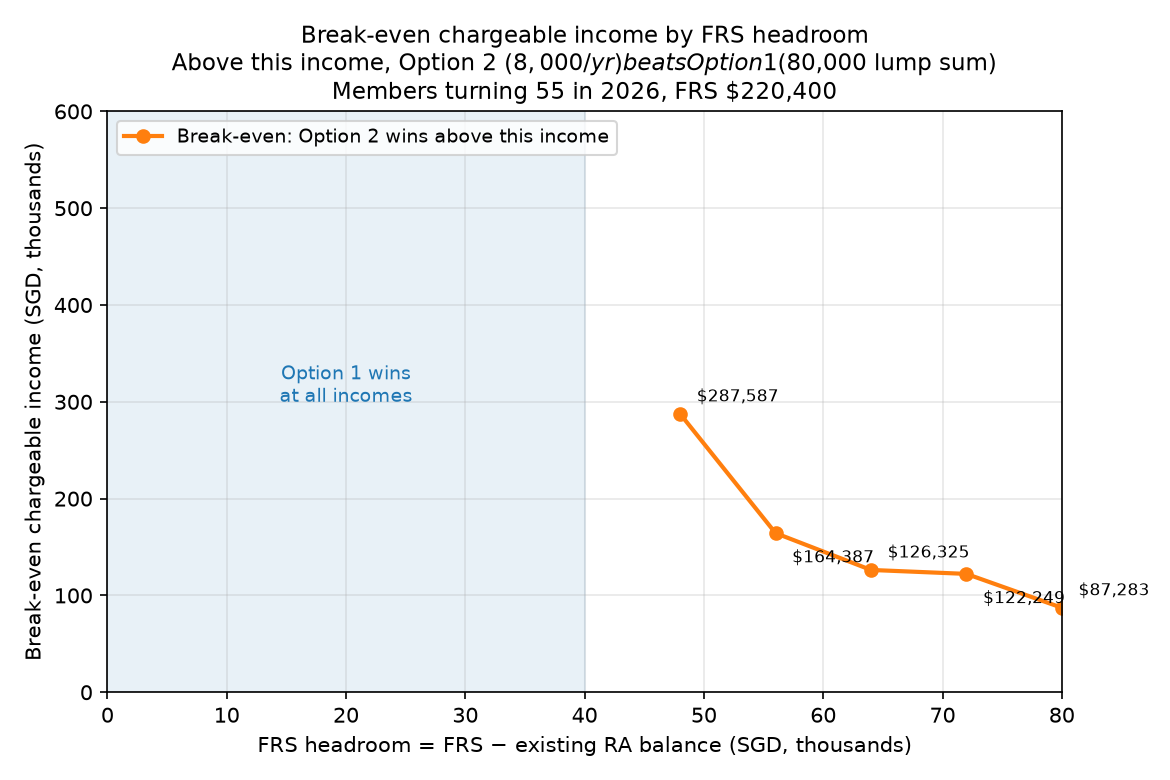
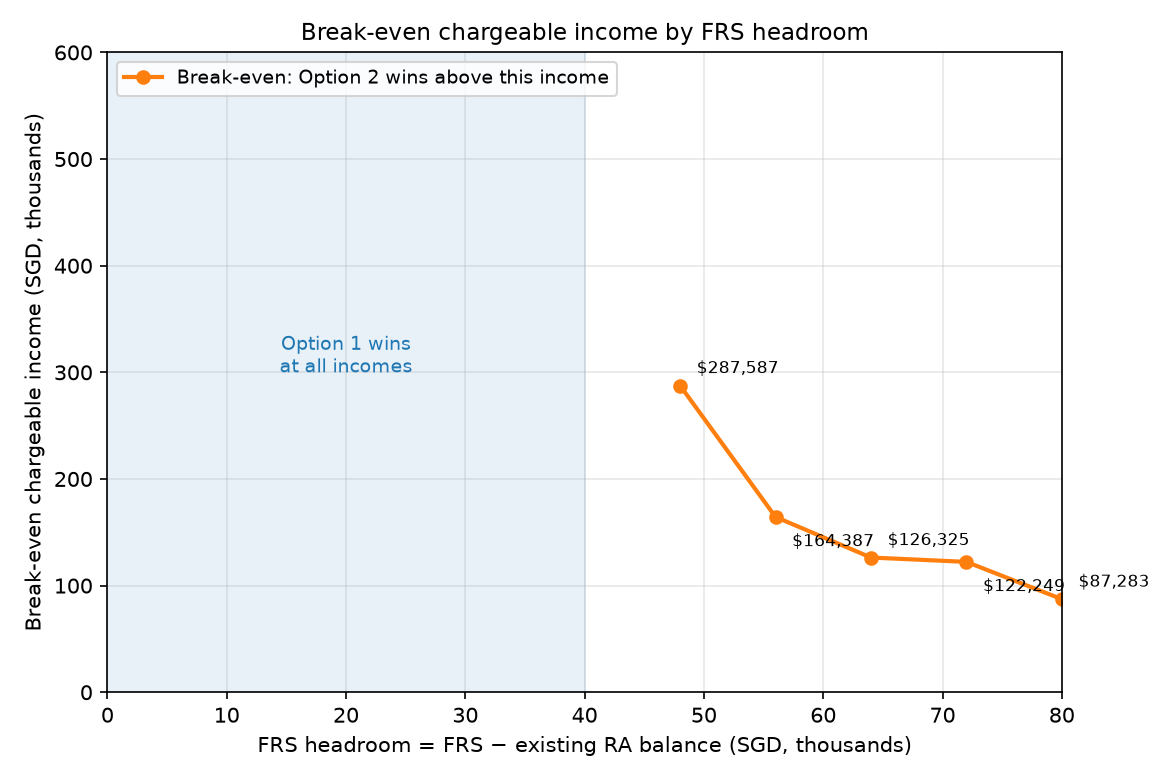
Trim Figure 2 title to a single line
Drop the option-definition and FRS-detail lines from the title; the
per-row annotations, axis labels, and legend already carry that
information. Visually verified on the regenerated figure.

diff --git a/make_crossover.py b/make_crossover.py
@@ -108,12 +108,8 @@ def plot_crossover_by_headroom(out, args, sensitivity):
     ax.set_xlabel("FRS headroom = FRS − existing RA balance "
                   "(SGD, thousands)")
     ax.set_ylabel("Break-even chargeable income (SGD, thousands)")
-    ax.set_title(
-        "Break-even chargeable income by FRS headroom\n"
-        f"Above this income, Option 2 (${args.annual:,.0f}/yr) beats "
-        f"Option 1 (${args.lump:,.0f} lump sum)\n"
-        f"Members turning {args.start_age} in 2026, FRS ${args.frs:,.0f}",
-        fontsize=11)
+    ax.set_title("Break-even chargeable income by FRS headroom",
+                 fontsize=11)
     ax.legend(fontsize=9, loc="upper left")
     ax.grid(alpha=0.3)
     fig.tight_layout()
